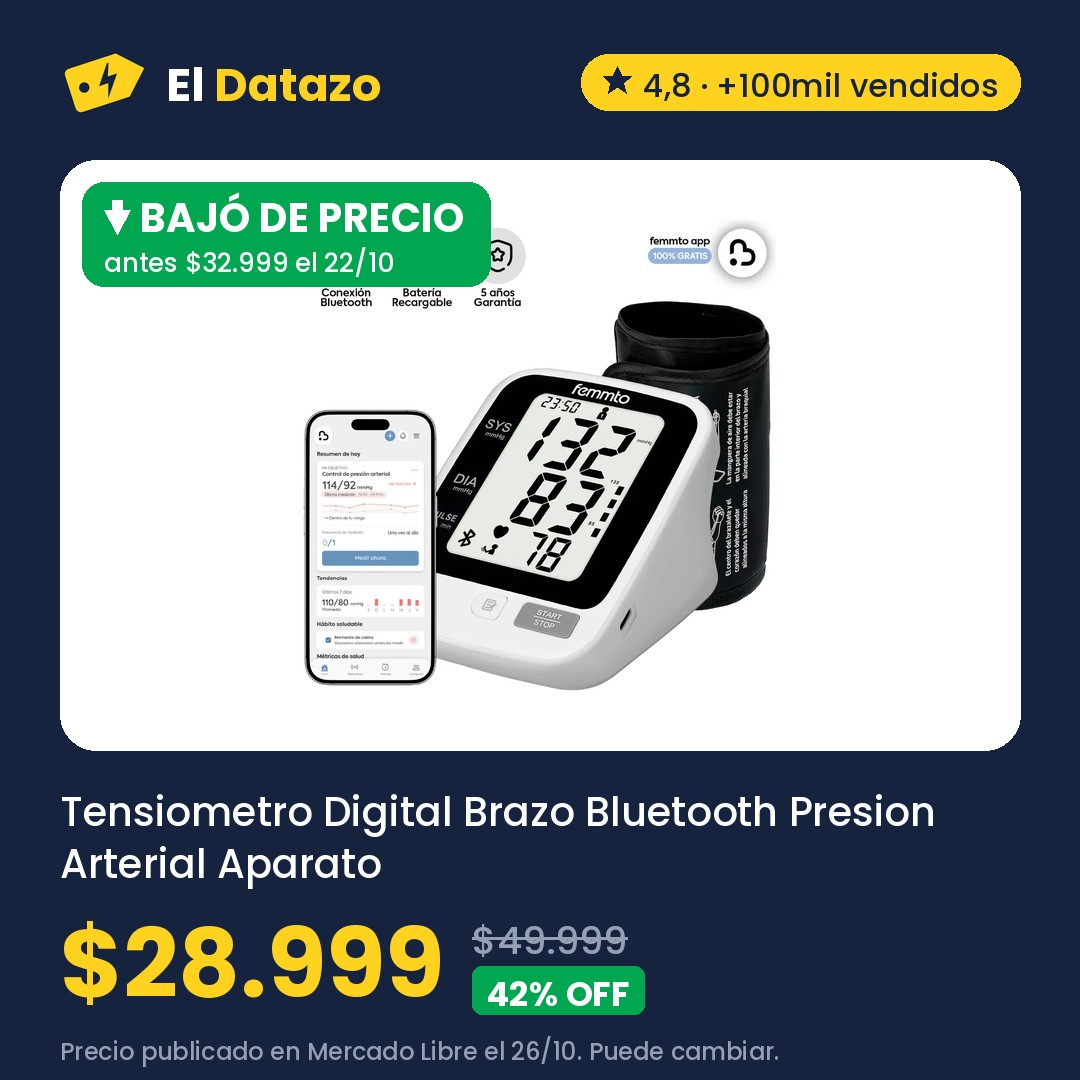
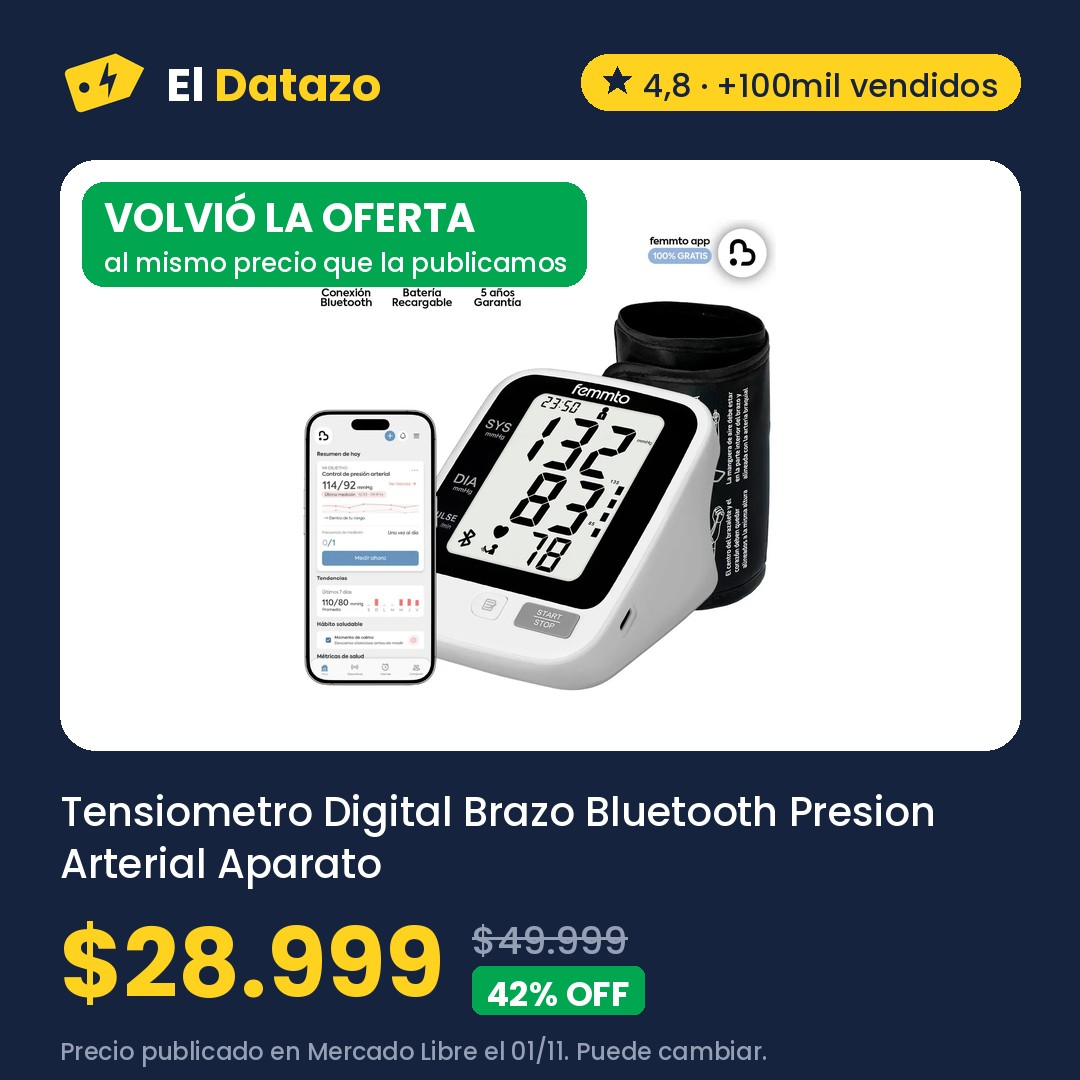
Ofertas 2026-11-01 19:31

Changed region(s): [[0.0917, 0.1528, 0.55, 0.275], [0.4583, 0.9472, 0.7028, 1.0]]

diff --git a/index.html b/index.html
@@ -293,7 +293,7 @@ padding:3px 9px;border-radius:999px}
       <p class="hero-precio">$57.573</p>
       <p class="hero-antes"><s>$139.999</s> <span class="off">59% OFF</span></p>
       
-      <p class="nota">Precio de hoy a las 11:34 en Mercado Libre. Puede cambiar.</p>
+      <p class="nota">Precio de hoy a las 16:31 en Mercado Libre. Puede cambiar.</p>
       <a class="boton oscuro" href="https://meli.la/2QAJKif" rel="sponsored noopener" target="_blank"
          data-oferta="MLA63186370">Ver oferta en Mercado Libre</a>
       <a class="compartir" href="https://wa.me/?text=Mir%C3%A1%20este%20datazo%3A%20C%C3%A1mara%20Digital%20Kodak%20Charmera%20RK0601%20Retro%20Compacta%20para%20Llavero%20y%20Video%20a%20%2457.573%20https%3A//eldatazo.com.ar/%23MLA63186370" target="_blank" rel="noopener" data-estilo="texto"><svg viewBox="0 0 24 24" width="16" height="16" aria-hidden="true"><path d="M4 20l1.3-4A8 8 0 1 1 8 18.7L4 20z" fill="none" stroke="currentColor" stroke-width="2" stroke-linejoin="round"/></svg> Compartir por WhatsApp</a>
@@ -301,14 +301,16 @@ padding:3px 9px;border-radius:999px}
   </section>
       
   <section class="franja-bajo" aria-labelledby="bajo-titulo">
-    <h2 id="bajo-titulo">⬇ Bajaron de precio <span>8</span></h2>
+    <h2 id="bajo-titulo">⬇ Bajaron de precio <span>9</span></h2>
     <ul class="franja-lista">
-        <li><a href="#MLA69121337"><img src="img/MLA69121337.jpg" alt="" loading="lazy">
-          <span><b>Figuritas Panini X 25 Sobres World Cup 2026 Mundial 2026</b><span class="ahora">$41.848</span><s>$48.980</s> <span class="bajo">⬇ Bajó</span></span></a></li>
         <li><a href="#MLA23456165"><img src="img/MLA23456165.jpg" alt="" loading="lazy">
           <span><b>Silfab AL91 Almohadilla Eléctrica Espalda Large 41 X 28 Cm</b><span class="ahora">$48.951</span><s>$50.465</s> <span class="bajo">⬇ Volvió y bajó</span></span></a></li>
+        <li><a href="#MLA24496709"><img src="img/MLA24496709.jpg" alt="" loading="lazy">
+          <span><b>Colchon Antiescaras Inflable Ortopedico Con Bomba Femmto</b><span class="ahora">$60.102</span><s>$61.749</s> <span class="bajo">⬇ Volvió y bajó</span></span></a></li>
         <li><a href="#MLA26204453"><img src="img/MLA26204453.jpg" alt="" loading="lazy">
           <span><b>Bomba Desagote Agua Sucia Vasser De 400ps 400 Watts</b><span class="ahora">$69.138</span> <span class="bajo">⬇ Volvió</span></span></a></li>
+        <li><a href="#MLA76118504"><img src="img/MLA76118504.jpg" alt="" loading="lazy">
+          <span><b>Tensiometro Digital Brazo Bluetooth Presion Arterial Aparato Para Tomar Presion Batería Recargable Usb Medidor Automatico Femmto KF-DT65S</b><span class="ahora">$28.999</span> <span class="bajo">⬇ Volvió</span></span></a></li>
         <li><a href="#MLA19576694"><img src="img/MLA19576694.jpg" alt="" loading="lazy">
           <span><b>Bomba Periferica Elevadora Agua Vasser 1/2 Hp 20mts caudal 30 l/m</b><span class="ahora">$41.159</span> <span class="bajo">⬇ Volvió</span></span></a></li>
         <li><a href="https://meli.la/1ZKoJXV" rel="sponsored noopener" target="_blank" data-oferta="MLA10295968"><img src="https://http2.mlstatic.com/D_Q_NP_929918-MLA100068424811_122025-AB.webp" alt="" loading="lazy" referrerpolicy="no-referrer">
@@ -342,8 +344,8 @@ padding:3px 9px;border-radius:999px}
             <option value="precio">Más baratas</option>
           </select></label>
       </div>
-      <div class="chips" role="group" aria-label="Rubro"><button type="button" data-filtro="" aria-pressed="true">Todo</button><button type="button" data-filtro="MLA1512" aria-pressed="false">Agro <span>3</span></button><button type="button" data-filtro="MLA1144" aria-pressed="false">Consolas y Videojuegos <span>1</span></button><button type="button" data-filtro="MLA1500" aria-pressed="false">Construcción <span>1</span></button><button type="button" data-filtro="MLA1276" aria-pressed="false">Deportes y Fitness <span>1</span></button><button type="button" data-filtro="MLA1499" aria-pressed="false">Industrias y Oficinas <span>1</span></button><button type="button" data-filtro="MLA1132" aria-pressed="false">Juegos y Juguetes <span>1</span></button><button type="button" data-filtro="MLA3025" aria-pressed="false">Libros, Revistas y Comics <span>1</span></button><button type="button" data-filtro="MLA409431" aria-pressed="false">Salud y Equipamiento Médico <span>1</span></button></div>
-      <p class="contador" aria-live="polite"><span data-cuenta>10</span> ofertas</p>
+      <div class="chips" role="group" aria-label="Rubro"><button type="button" data-filtro="" aria-pressed="true">Todo</button><button type="button" data-filtro="MLA1512" aria-pressed="false">Agro <span>3</span></button><button type="button" data-filtro="MLA409431" aria-pressed="false">Salud y Equipamiento Médico <span>3</span></button><button type="button" data-filtro="MLA1144" aria-pressed="false">Consolas y Videojuegos <span>1</span></button><button type="button" data-filtro="MLA1500" aria-pressed="false">Construcción <span>1</span></button><button type="button" data-filtro="MLA1276" aria-pressed="false">Deportes y Fitness <span>1</span></button><button type="button" data-filtro="MLA1499" aria-pressed="false">Industrias y Oficinas <span>1</span></button><button type="button" data-filtro="MLA3025" aria-pressed="false">Libros, Revistas y Comics <span>1</span></button></div>
+      <p class="contador" aria-live="polite"><span data-cuenta>11</span> ofertas</p>
     </div>
     <div class="grilla activas">
       <article class="tarjeta" id="MLA19472094" data-rubro="MLA1144" data-off="0" data-pub="2026-11-01" data-quedan="7" data-precio="75999" data-bajo="0" data-texto="god of war ragnarok ps4 juego físico nuevo sony original">
@@ -355,7 +357,7 @@ padding:3px 9px;border-radius:999px}
           <h3>God Of War Ragnarok Ps4 Juego Físico Nuevo Sony Original</h3>
           <p class="precios "><span class="precio">$75.999</span></p>
           
-          <p class="nota">Precio de hoy a las 11:34 en Mercado Libre. Puede cambiar.</p>
+          <p class="nota">Precio de hoy a las 16:31 en Mercado Libre. Puede cambiar.</p>
           <div class="acciones">
             <a class="boton" href="https://meli.la/217QPCu" rel="sponsored noopener" target="_blank"
                data-oferta="MLA19472094">Ver oferta</a>
@@ -373,11 +375,29 @@ padding:3px 9px;border-radius:999px}
           <h3>Silfab AL91 Almohadilla Eléctrica Espalda Large 41 X 28 Cm</h3>
           <p class="precios "><span class="precio">$48.951</span><s class="antes">$53.190</s><span class="off">8% OFF</span></p>
           <p class="bajo">Antes $50.465 el 24/10 · 3% menos</p>
-          <p class="nota">Precio de hoy a las 11:34 en Mercado Libre. Puede cambiar.</p>
+          <p class="nota">Precio de hoy a las 16:31 en Mercado Libre. Puede cambiar.</p>
           <div class="acciones">
             <a class="boton" href="https://meli.la/2cQdCWW" rel="sponsored noopener" target="_blank"
                data-oferta="MLA23456165">Ver oferta</a>
             <a class="compartir" href="https://wa.me/?text=Mir%C3%A1%20este%20datazo%3A%20Silfab%20AL91%20Almohadilla%20El%C3%A9ctrica%20Espalda%20Large%2041%20X%2028%20Cm%20a%20%2448.951%20https%3A//eldatazo.com.ar/%23MLA23456165" target="_blank" rel="noopener"
+               aria-label="Compartir por WhatsApp" title="Compartir por WhatsApp"><svg viewBox="0 0 24 24" width="16" height="16" aria-hidden="true"><path d="M4 20l1.3-4A8 8 0 1 1 8 18.7L4 20z" fill="none" stroke="currentColor" stroke-width="2" stroke-linejoin="round"/></svg></a>
+          </div>
+        </div>
+      </article>
+      <article class="tarjeta destacada" id="MLA24496709" data-rubro="MLA409431" data-off="50" data-pub="2026-11-01" data-quedan="7" data-precio="60102" data-bajo="4" data-texto="colchon antiescaras inflable ortopedico con bomba femmto">
+        <div class="tarjeta-foto">
+          <img src="img/MLA24496709.jpg" alt="Colchon Antiescaras Inflable Ortopedico Con Bomba Femmto" loading="lazy" width="1080" height="1080">
+        </div>
+        <div class="cuerpo">
+          <div class="fila"><span class="sello baja">⬇ Volvió y bajó</span><span class="sello">Quedan 7 días</span><span class="rubro">Salud y Equipamiento Médico</span></div>
+          <h3>Colchon Antiescaras Inflable Ortopedico Con Bomba Femmto</h3>
+          <p class="precios "><span class="precio">$60.102</span><s class="antes">$119.999</s><span class="off">50% OFF</span></p>
+          <p class="bajo">Antes $61.749 el 26/10 · 3% menos</p>
+          <p class="nota">Precio de hoy a las 16:31 en Mercado Libre. Puede cambiar.</p>
+          <div class="acciones">
+            <a class="boton" href="https://meli.la/1yfHiNk" rel="sponsored noopener" target="_blank"
+               data-oferta="MLA24496709">Ver oferta</a>
+            <a class="compartir" href="https://wa.me/?text=Mir%C3%A1%20este%20datazo%3A%20Colchon%20Antiescaras%20Inflable%20Ortopedico%20Con%20Bomba%20Femmto%20a%20%2460.102%20https%3A//eldatazo.com.ar/%23MLA24496709" target="_blank" rel="noopener"
                aria-label="Compartir por WhatsApp" title="Compartir por WhatsApp"><svg viewBox="0 0 24 24" width="16" height="16" aria-hidden="true"><path d="M4 20l1.3-4A8 8 0 1 1 8 18.7L4 20z" fill="none" stroke="currentColor" stroke-width="2" stroke-linejoin="round"/></svg></a>
           </div>
         </div>
@@ -391,7 +411,7 @@ padding:3px 9px;border-radius:999px}
           <h3>Crique Hidraulico Carrito Gato Para Autos 2 Tn Mejor Calidad</h3>
           <p class="precios "><span class="precio">$54.533</span><s class="antes">$58.014</s><span class="off">6% OFF</span></p>
           
-          <p class="nota">Precio de hoy a las 11:34 en Mercado Libre. Puede cambiar.</p>
+          <p class="nota">Precio de hoy a las 16:31 en Mercado Libre. Puede cambiar.</p>
           <div class="acciones">
             <a class="boton" href="https://meli.la/2ZwvMNb" rel="sponsored noopener" target="_blank"
                data-oferta="MLA24729106">Ver oferta</a>
@@ -409,7 +429,7 @@ padding:3px 9px;border-radius:999px}
           <h3>Bomba Desagote Agua Sucia Vasser De 400ps 400 Watts</h3>
           <p class="precios "><span class="precio">$69.138</span><s class="antes">$85.441</s><span class="off">19% OFF</span></p>
           <p class="bajo">Había terminado y volvió al mismo precio</p>
-          <p class="nota">Precio de hoy a las 11:34 en Mercado Libre. Puede cambiar.</p>
+          <p class="nota">Precio de hoy a las 16:31 en Mercado Libre. Puede cambiar.</p>
           <div class="acciones">
             <a class="boton" href="https://meli.la/19GEcXU" rel="sponsored noopener" target="_blank"
                data-oferta="MLA26204453">Ver oferta</a>
@@ -427,7 +447,7 @@ padding:3px 9px;border-radius:999px}
           <h3>Taladro Percutor Total Mandril 13mm 710w Tg107136 Color Turquesa Frecuencia 50 Hz x 60 Hz</h3>
           <p class="precios "><span class="precio">$70.220</span></p>
           
-          <p class="nota">Precio de hoy a las 11:34 en Mercado Libre. Puede cambiar.</p>
+          <p class="nota">Precio de hoy a las 16:31 en Mercado Libre. Puede cambiar.</p>
           <div class="acciones">
             <a class="boton" href="https://meli.la/2dUz2s5" rel="sponsored noopener" target="_blank"
                data-oferta="MLA29532448">Ver oferta</a>
@@ -445,7 +465,7 @@ padding:3px 9px;border-radius:999px}
           <h3>Libro: Primero Yo, Después El Resto: 120 Sesiones De Verdad</h3>
           <p class="precios "><span class="precio">$33.000</span></p>
           
-          <p class="nota">Precio de hoy a las 11:34 en Mercado Libre. Puede cambiar.</p>
+          <p class="nota">Precio de hoy a las 16:31 en Mercado Libre. Puede cambiar.</p>
           <div class="acciones">
             <a class="boton" href="https://meli.la/2DQxPNs" rel="sponsored noopener" target="_blank"
                data-oferta="MLA73800060">Ver oferta</a>
@@ -454,20 +474,20 @@ padding:3px 9px;border-radius:999px}
           </div>
         </div>
       </article>
-      <article class="tarjeta destacada" id="MLA69121337" data-rubro="MLA1132" data-off="0" data-pub="2026-10-30" data-quedan="5" data-precio="41848" data-bajo="16" data-texto="figuritas panini x 25 sobres world cup 2026 mundial 2026">
+      <article class="tarjeta destacada" id="MLA76118504" data-rubro="MLA409431" data-off="42" data-pub="2026-11-01" data-quedan="7" data-precio="28999" data-bajo="1" data-texto="tensiometro digital brazo bluetooth presion arterial aparato para tomar presion batería recargable usb medidor automatico femmto kf-dt65s">
         <div class="tarjeta-foto">
-          <img src="img/MLA69121337.jpg" alt="Figuritas Panini X 25 Sobres World Cup 2026 Mundial 2026" loading="lazy" width="1080" height="1080">
+          <img src="img/MLA76118504.jpg" alt="Tensiometro Digital Brazo Bluetooth Presion Arterial Aparato Para Tomar Presion Batería Recargable Usb Medidor Automatico Femmto KF-DT65S" loading="lazy" width="1080" height="1080">
         </div>
         <div class="cuerpo">
-          <div class="fila"><span class="sello baja">⬇ Bajó</span><span class="sello">Quedan 5 días</span><span class="rubro">Juegos y Juguetes</span></div>
-          <h3>Figuritas Panini X 25 Sobres World Cup 2026 Mundial 2026</h3>
-          <p class="precios "><span class="precio">$41.848</span></p>
-          <p class="bajo">Antes $48.980 el 28/10 · 15% menos</p>
-          <p class="nota">Precio del 30/10 en Mercado Libre, revisado hoy a las 11:34. Puede cambiar.</p>
+          <div class="fila"><span class="sello baja">⬇ Volvió</span><span class="sello">Quedan 7 días</span><span class="rubro">Salud y Equipamiento Médico</span></div>
+          <h3>Tensiometro Digital Brazo Bluetooth Presion Arterial Aparato Para Tomar Presion Batería Recargable Usb Medidor Automatico Femmto KF-DT65S</h3>
+          <p class="precios "><span class="precio">$28.999</span><s class="antes">$49.999</s><span class="off">42% OFF</span></p>
+          <p class="bajo">Había terminado y volvió al mismo precio</p>
+          <p class="nota">Precio de hoy a las 16:31 en Mercado Libre. Puede cambiar.</p>
           <div class="acciones">
-            <a class="boton" href="https://meli.la/1qNpAcw" rel="sponsored noopener" target="_blank"
-               data-oferta="MLA69121337">Ver oferta</a>
-            <a class="compartir" href="https://wa.me/?text=Mir%C3%A1%20este%20datazo%3A%20Figuritas%20Panini%20X%2025%20Sobres%20World%20Cup%202026%20Mundial%202026%20a%20%2441.848%20https%3A//eldatazo.com.ar/%23MLA69121337" target="_blank" rel="noopener"
+            <a class="boton" href="https://meli.la/2V53bXq" rel="sponsored noopener" target="_blank"
+               data-oferta="MLA76118504">Ver oferta</a>
+            <a class="compartir" href="https://wa.me/?text=Mir%C3%A1%20este%20datazo%3A%20Tensiometro%20Digital%20Brazo%20Bluetooth%20Presion%20Arterial%20Aparato%20Para%20Tomar%20Presion%20Bater%C3%ADa%20Recargable%20Usb%20Medidor%20Automatico%20Femmto%20KF-DT65S%20a%20%2428.999%20https%3A//eldatazo.com.ar/%23MLA76118504" target="_blank" rel="noopener"
                aria-label="Compartir por WhatsApp" title="Compartir por WhatsApp"><svg viewBox="0 0 24 24" width="16" height="16" aria-hidden="true"><path d="M4 20l1.3-4A8 8 0 1 1 8 18.7L4 20z" fill="none" stroke="currentColor" stroke-width="2" stroke-linejoin="round"/></svg></a>
           </div>
         </div>
@@ -481,7 +501,7 @@ padding:3px 9px;border-radius:999px}
           <h3>Bomba Periferica Elevadora Agua Vasser 1/2 Hp 20mts caudal 30 l/m</h3>
           <p class="precios "><span class="precio">$41.159</span><s class="antes">$51.449</s><span class="off">20% OFF</span></p>
           <p class="bajo">Había terminado y volvió al mismo precio</p>
-          <p class="nota">Precio del 30/10 en Mercado Libre, revisado hoy a las 11:34. Puede cambiar.</p>
+          <p class="nota">Precio del 30/10 en Mercado Libre, revisado hoy a las 16:31. Puede cambiar.</p>
           <div class="acciones">
             <a class="boton" href="https://meli.la/2nztThe" rel="sponsored noopener" target="_blank"
                data-oferta="MLA19576694">Ver oferta</a>
@@ -499,7 +519,7 @@ padding:3px 9px;border-radius:999px}
           <h3>Colchón Inflable Doble Klimber + Inflador + 2 Almohadas</h3>
           <p class="precios "><span class="precio">$47.990</span><s class="antes">$69.999</s><span class="off">31% OFF</span></p>
           
-          <p class="nota">Precio de hoy a las 11:34 en Mercado Libre. Puede cambiar.</p>
+          <p class="nota">Precio de hoy a las 16:31 en Mercado Libre. Puede cambiar.</p>
           <div class="acciones">
             <a class="boton" href="https://meli.la/19eMhmv" rel="sponsored noopener" target="_blank"
                data-oferta="MLA22764635">Ver oferta</a>
@@ -517,7 +537,7 @@ padding:3px 9px;border-radius:999px}
           <h3>Rotuladora Portátil Niimbot Etiquetadora Manual Impresora Color Blanco D110</h3>
           <p class="precios "><span class="precio">$41.040</span><s class="antes">$58.900</s><span class="off">30% OFF</span></p>
           
-          <p class="nota">Precio del 26/10 en Mercado Libre, revisado hoy a las 11:34. Puede cambiar.</p>
+          <p class="nota">Precio del 26/10 en Mercado Libre, revisado hoy a las 16:31. Puede cambiar.</p>
           <div class="acciones">
             <a class="boton" href="https://meli.la/1czSFp6" rel="sponsored noopener" target="_blank"
                data-oferta="MLA45260672">Ver oferta</a>
@@ -799,6 +819,17 @@ padding:3px 9px;border-radius:999px}
              data-oferta="MLA28052339">Ver precio de hoy</a>
         </div>
       </article>
+      <article class="tarjeta terminada" id="MLA69121337">
+        <div class="tarjeta-foto">
+          <img src="img/MLA69121337_terminada.jpg" alt="Figuritas Panini X 25 Sobres World Cup 2026 Mundial 2026" loading="lazy" width="1080" height="1080">
+        </div>
+        <div class="cuerpo">
+          <h3>Figuritas Panini X 25 Sobres World Cup 2026 Mundial 2026</h3>
+          <p class="nota">Terminó el 01/11. El link sigue abierto: mirá el precio de hoy.</p>
+          <a class="boton suave" href="https://meli.la/1qNpAcw" rel="sponsored noopener" target="_blank"
+             data-oferta="MLA69121337">Ver precio de hoy</a>
+        </div>
+      </article>
       <article class="tarjeta terminada" id="MLA19974075">
         <div class="tarjeta-foto">
           <img src="img/MLA19974075_terminada.jpg" alt="Bomba Pluvius Presurizadora 100 W Automática 2 Baños" loading="lazy" width="1080" height="1080">
@@ -1074,17 +1105,6 @@ padding:3px 9px;border-radius:999px}
              data-oferta="MLA23027132">Ver precio de hoy</a>
         </div>
       </article>
-      <article class="tarjeta terminada" id="MLA24496709">
-        <div class="tarjeta-foto">
-          <img src="img/MLA24496709_terminada.jpg" alt="Colchon Antiescaras Inflable Ortopedico Con Bomba Femmto" loading="lazy" width="1080" height="1080">
-        </div>
-        <div class="cuerpo">
-          <h3>Colchon Antiescaras Inflable Ortopedico Con Bomba Femmto</h3>
-          <p class="nota">Terminó el 27/10. El link sigue abierto: mirá el precio de hoy.</p>
-          <a class="boton suave" href="https://meli.la/1yfHiNk" rel="sponsored noopener" target="_blank"
-             data-oferta="MLA24496709">Ver precio de hoy</a>
-        </div>
-      </article>
       <article class="tarjeta terminada" id="MLA28878536">
         <div class="tarjeta-foto">
           <img src="img/MLA28878536_terminada.jpg" alt="BOTIQUÍN DE BAÑO TRENTO AMUBE 30x50 CM | Espejo y Repisa | Melamina Blanca" loading="lazy" width="1080" height="1080">
@@ -1126,7 +1146,7 @@ padding:3px 9px;border-radius:999px}
       <nav class="redes" aria-label="Redes de El Datazo"><a class="red" href="https://www.instagram.com/eldatazo.arg/" target="_blank" rel="noopener"><svg viewBox="0 0 24 24" width="18" height="18" aria-hidden="true"><rect x="3" y="3" width="18" height="18" rx="5" fill="none" stroke="currentColor" stroke-width="2"/><circle cx="12" cy="12" r="4" fill="none" stroke="currentColor" stroke-width="2"/><circle cx="17.5" cy="6.5" r="1.3" fill="currentColor"/></svg> Instagram</a><a class="red" href="https://www.facebook.com/profile.php?id=61595441168911" target="_blank" rel="noopener"><svg viewBox="0 0 24 24" width="18" height="18" aria-hidden="true"><path d="M14 8h3V4h-3a4 4 0 0 0-4 4v2H7v4h3v8h4v-8h3l1-4h-4V8z" fill="currentColor"/></svg> Facebook</a><a class="red" href="https://t.me/eldatazo_ofertas" target="_blank" rel="noopener"><svg viewBox="0 0 24 24" width="18" height="18" aria-hidden="true"><path d="M21 4 3 11l5 2 2 6 3-4 5 4 3-15zM9 13l9-6-7 8" fill="none" stroke="currentColor" stroke-width="1.8" stroke-linejoin="round"/></svg> Telegram</a></nav>
       <p>Los links son de afiliado de Mercado Libre: si comprás, El Datazo puede recibir una comisión, sin que cambie
       tu precio. Los precios son los publicados en Mercado Libre el día indicado y pueden cambiar.</p>
-      <p>Actualizado el 01/11/2026 11:34 (hora argentina) · <a href="privacidad/">Privacidad</a></p>
+      <p>Actualizado el 01/11/2026 16:31 (hora argentina) · <a href="privacidad/">Privacidad</a></p>
     </div>
   </footer>
   
